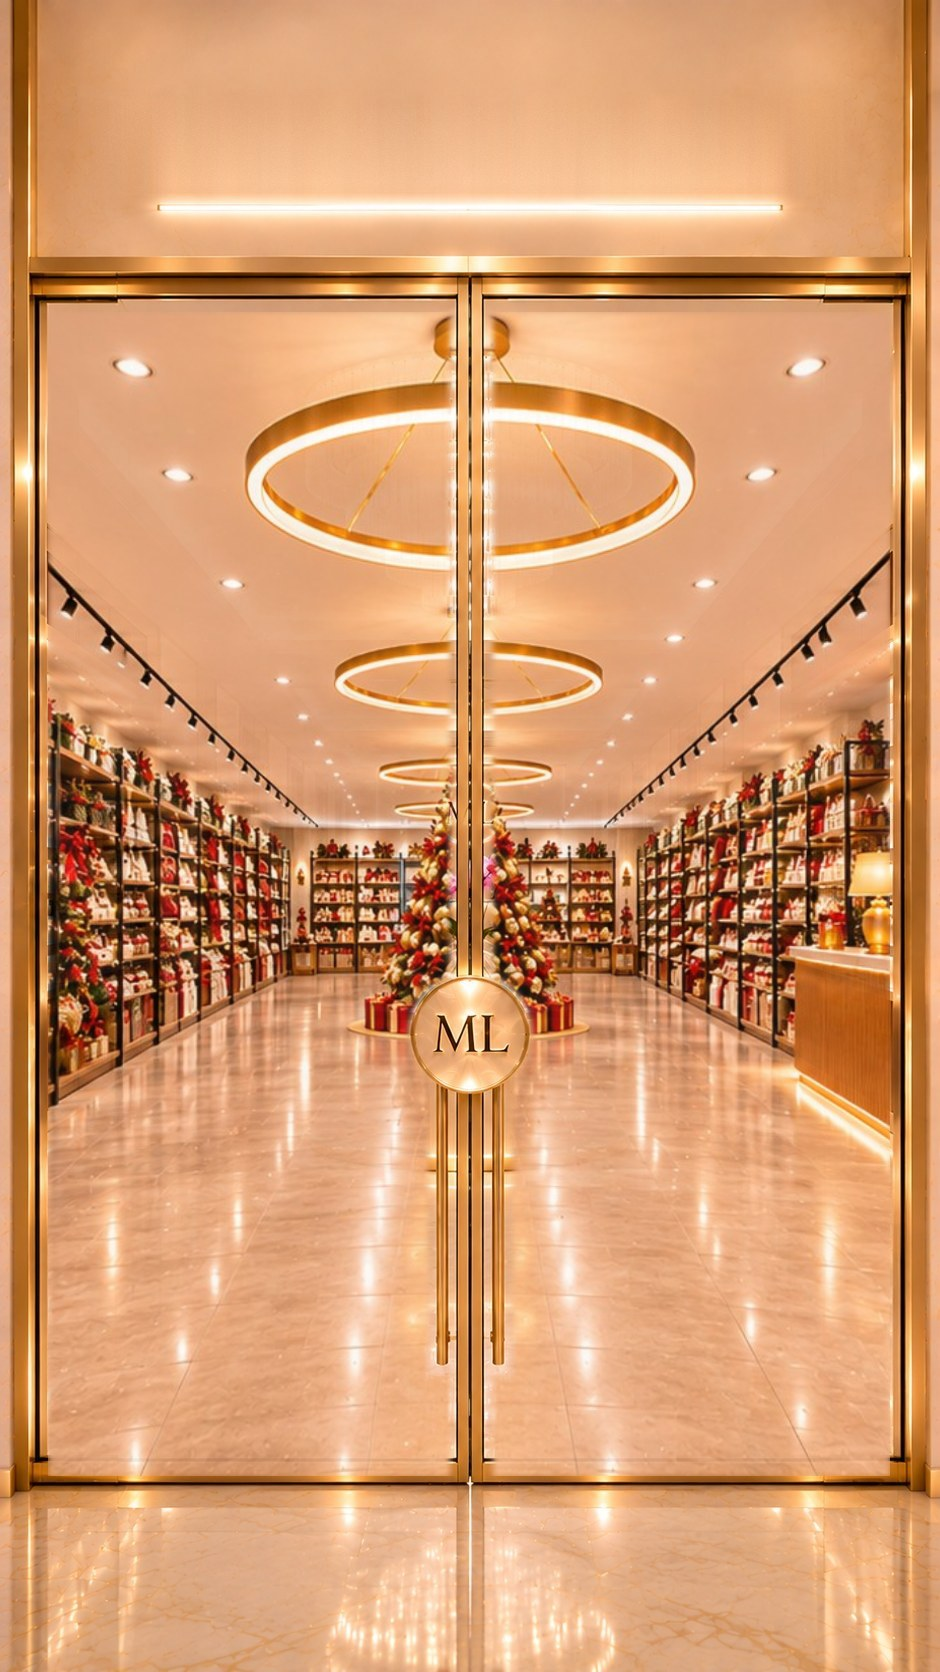
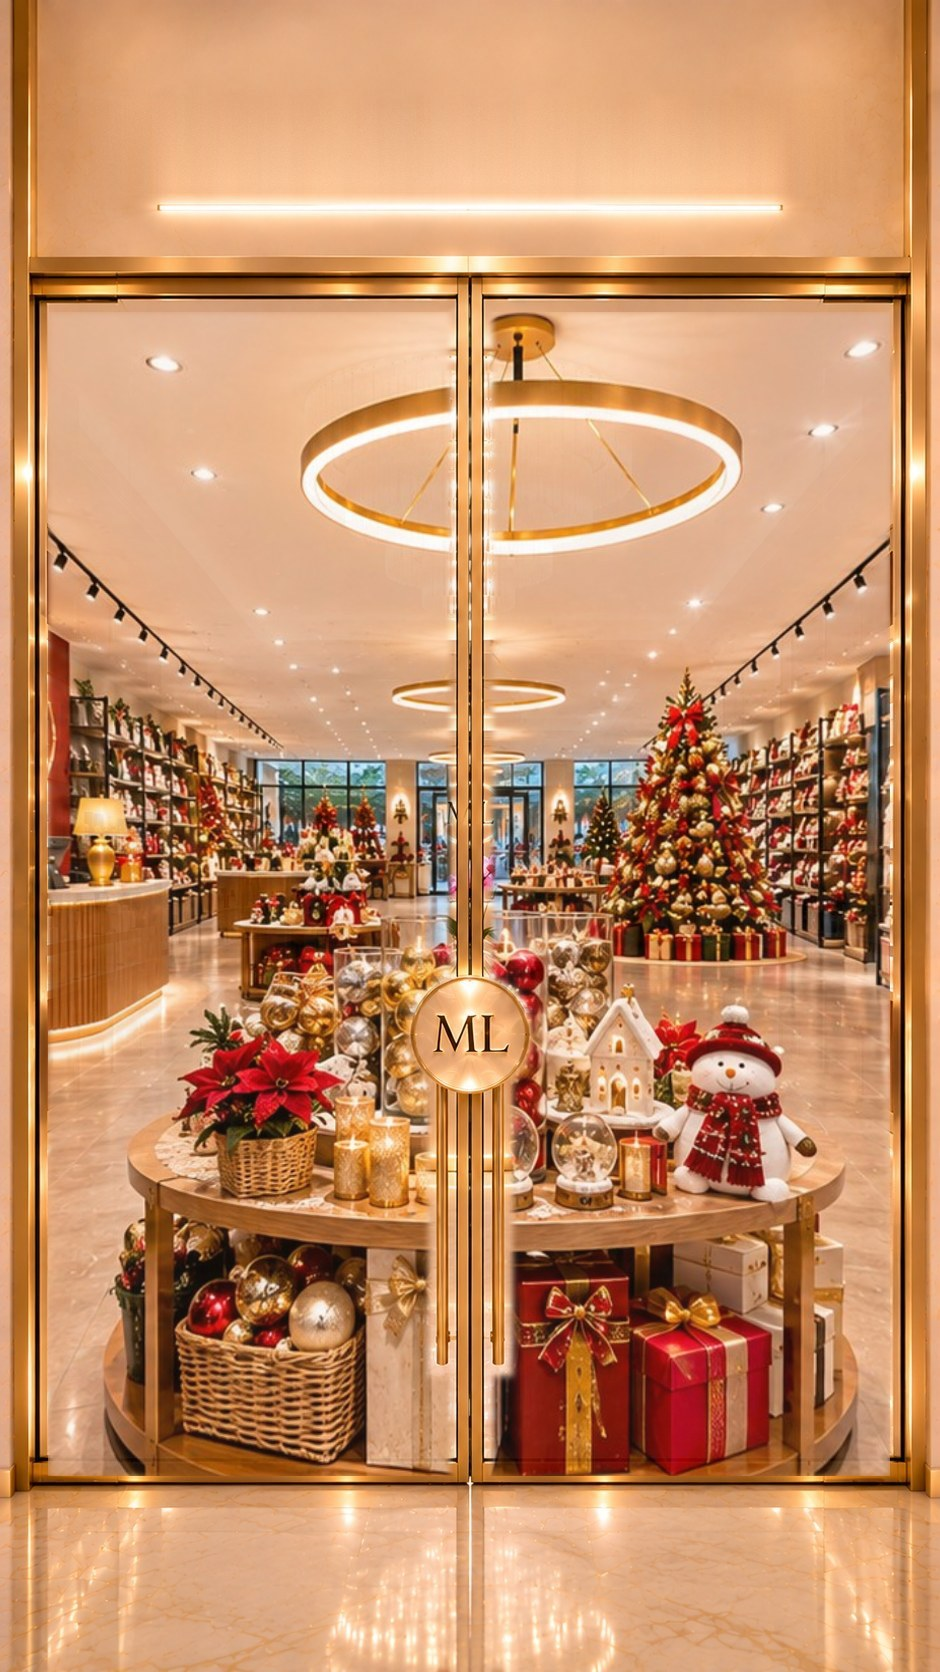
Boutiques: Villa Navidad vuelve a la entrada aprobada (pasillo)
Claude-Session: https://claude.ai/code/session_01N9LMnzoHcTVnJVvaoy1ZZX

diff --git a/boutiques/tienda.js b/boutiques/tienda.js
@@ -37,19 +37,8 @@
       pre: "villa-", door: "img/puerta-villa-navidad.jpg", name: "Villa Navidad", sub: "Manualidades navideñas", cur: "USD", cta: "Comprar (demo)", music: "audio/villa-navidad.mp3",
       studio: { kind: "ball", title: "Crea tu esfera navideña", sub: "Elige el color, escribe tu nombre y mira cómo queda.", price: 22, opts: [{ n: "Rojo", c: "#c1272d", d: "#7e1218" }, { n: "Dorado", c: "#e2b857", d: "#a67c1f" }, { n: "Verde", c: "#2f6b45", d: "#173d27" }] },
       scenes: [
-        { room: "img/villa-simetrica.jpg", span: 130, pmin: -4, pmax: 4, pitchEnd: 0,
-          links: [{ x: 50, y: 72, l: "Caminar hacia el árbol", to: 1 }],
-          points: [
-            { x: 50, y: 48, l: "Árbol de Navidad", items: [{ n: "Árbol decorado", d: "Árbol en rojo, dorado y marfil con lazos.", p: 120, img: "s-arbol" }] },
-            { x: 7, y: 43, l: "Esferas de árbol", items: [{ n: "Esferas de árbol artesanales", d: "Esferas rojas, doradas y plateadas. Caja de 12.", p: 36, img: "s-izq" }] },
-            { x: 18, y: 68, l: "Medias navideñas", items: [{ n: "Medias navideñas bordadas", d: "Para chimenea o puerta, bordadas a mano.", p: 18, img: "s-medias" }] },
-            { x: 17, y: 30, l: "Casitas navideñas", items: [{ n: "Casita navideña con luz", d: "Cerámica pintada a mano, con luz cálida.", p: 42, img: "s-casitas" }] },
-            { x: 69, y: 45, l: "Mostrador", items: [{ n: "Figura del mostrador", d: "Muñeco navideño de colección.", p: 45, img: "s-der" }] },
-            { x: 91, y: 47, l: "Esferas colgantes", items: [{ n: "Esferas rojas, doradas y plateadas", d: "Esferas decorativas pintadas a mano.", p: 26, img: "s-esferas" }] },
-            { x: 81, y: 70, l: "Medias navideñas", items: [{ n: "Medias bordadas rojas", d: "Edición navideña, bordadas a mano.", p: 18, img: "s-medias2" }] }
-          ] },
         { room: "img/villa-pasillo.jpg", span: 130, pmin: -4, pmax: 4, pitchEnd: 0,
-          links: [{ x: 50, y: 52, l: "Ver el local en 360°", to: 2 }],
+          links: [{ x: 50, y: 52, l: "Ver el local en 360°", to: 1 }],
           points: [
             { x: 10, y: 45, l: "Papel y listones", items: [{ n: "Papel de regalo navideño", d: "Rollos y listones en rojo, dorado y marfil.", p: 8, img: "p-papel" }] },
             { x: 51, y: 70, l: "Mesa central", items: [{ n: "Muñeco de nieve y esferas", d: "Muñeco de peluche, esferas y velas decorativas.", p: 29, img: "p-mesa" }] },
@@ -59,7 +48,7 @@
             { x: 33, y: 55, l: "Mostrador", items: [{ n: "Figura del mostrador", d: "Muñeco navideño de colección.", p: 45, img: "p-mostrador" }] }
           ] },
         { room: "img/villa-centro.jpg", span: 360, yaw0: 0,
-          links: [{ x: 43, y: 68, l: "Volver al pasillo", to: 1 }, { x: 62, y: 72, l: "Ver desde el fondo", to: 3 }],
+          links: [{ x: 43, y: 68, l: "Volver al pasillo", to: 0 }, { x: 62, y: 72, l: "Ver desde el fondo", to: 2 }],
           points: [
             { x: 6, y: 37, l: "Árbol de Navidad", items: [{ n: "Adornos de árbol artesanales", d: "Esferas y lazos en rojo y dorado, hechos a mano. Set de 12.", p: 36, img: "c-arbol" }] },
             { x: 8, y: 80, l: "Cajas de regalo", items: [{ n: "Cajas de regalo decoradas", d: "Envueltas con listón dorado, listas para regalar.", p: 15, img: "c-regalos" }] },
@@ -68,7 +57,7 @@
             { x: 91, y: 45, l: "Figuras navideñas", items: [{ n: "Figuras navideñas de colección", d: "Muñecos y personajes de Navidad pintados a mano.", p: 28, img: "c-estante" }] },
             { x: 17, y: 38, l: "Renos y arbolitos", items: [{ n: "Renos y arbolitos decorativos", d: "Figuras blancas y doradas para el hogar.", p: 34, img: "c-izq" }] }
           ] },
-        { room: "img/villa-fondo.jpg", span: 130, pmin: -4, pmax: 4, links: [{ x: 50, y: 62, l: "Volver al centro", to: 2 }],
+        { room: "img/villa-fondo.jpg", span: 130, pmin: -4, pmax: 4, links: [{ x: 50, y: 62, l: "Volver al centro", to: 1 }],
           points: [
             { x: 34, y: 45, l: "Árbol de Navidad", items: [{ n: "Árbol decorado", d: "Árbol en rojo, dorado y marfil con lazos.", p: 120, img: "f-arbol" }] },
             { x: 48, y: 68, l: "Mesa central", items: [{ n: "Muñeco de nieve y esferas", d: "Muñeco de peluche, esferas y velas decorativas.", p: 29, img: "f-mesa" }] },

diff --git a/boutiques/tienda.html b/boutiques/tienda.html
@@ -65,6 +65,6 @@
 <script src="data.js?v=1"></script>
 <script src="icons.js?v=1"></script>
 <script src="pano.js?v=1"></script>
-<script src="tienda.js?v=24"></script>
+<script src="tienda.js?v=25"></script>
 </body>
 </html>
